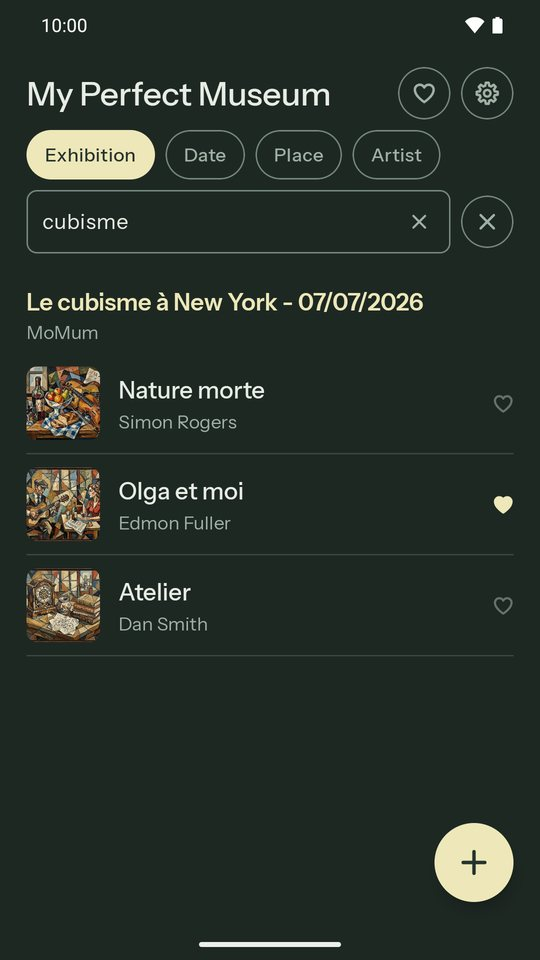
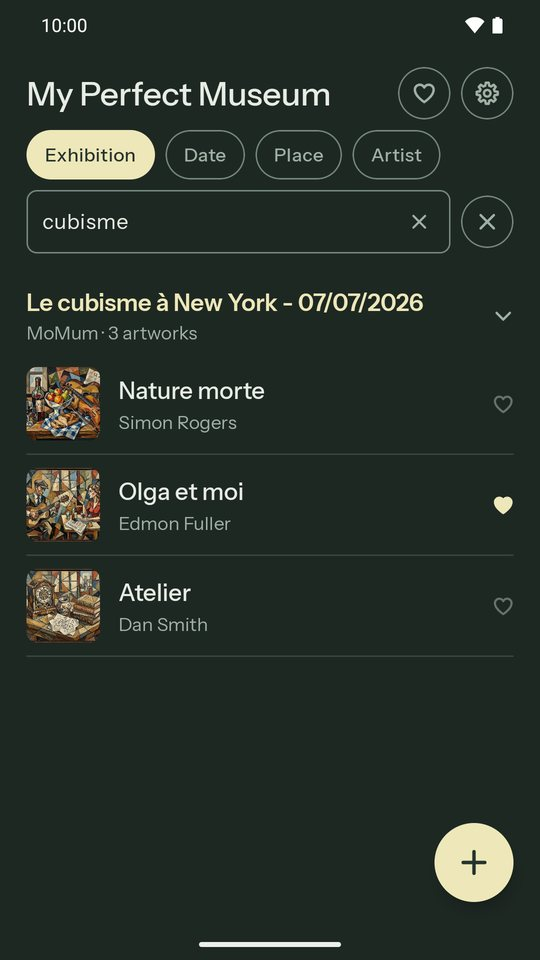
Add files via upload

diff --git a/index.html b/index.html
@@ -136,11 +136,11 @@ footer .wrap { display: flex; flex-wrap: wrap; gap: 8px 24px; justify-content: s
         <div class="telephone"><picture><source srcset="assets/fr-sombre-03-fiche-tags-impressions.jpg" media="(prefers-color-scheme: dark)"><img src="assets/fr-clair-03-fiche-tags-impressions.jpg" alt="Fiche d'une œuvre avec tags et impressions" width="540" height="960" loading="lazy" decoding="async"></picture></div>
       </div>
       <div class="fonction">
-        <div class="texte"><h3>Retrouvez tout facilement</h3><p>Votre collection classée par exposition, par date, par lieu ou par artiste, et une recherche dans tous vos textes : titre, artiste, exposition, lieu, impressions, cartel. Un appui long pour sélectionner plusieurs œuvres et les modifier ou les supprimer d'un coup.</p></div>
+        <div class="texte"><h3>Retrouvez tout facilement</h3><p>Votre collection classée par exposition, par date, par lieu ou par artiste, et une recherche dans tous vos textes : titre, artiste, exposition, lieu, impressions, cartel. Des sections repliables, et un appui long pour modifier toute une exposition ou plusieurs œuvres d'un coup.</p></div>
         <div class="telephone"><picture><source srcset="assets/fr-sombre-05-recherche.jpg" media="(prefers-color-scheme: dark)"><img src="assets/fr-clair-05-recherche.jpg" alt="Recherche dans la collection" width="540" height="960" loading="lazy" decoding="async"></picture></div>
       </div>
       <div class="fonction">
-        <div class="texte"><h3>Votre collection en chiffres</h3><p>Votre profil d'amateur, votre artiste de prédilection, votre musée fétiche, votre complice de musée, vos œuvres par mouvement, par époque et par lieu, et votre rythme de visite comparé aux statistiques nationales.</p></div>
+        <div class="texte"><h3>Votre collection en chiffres</h3><p>Votre profil d'amateur et un portrait qui évolue avec vos visites : votre artiste de prédilection, votre musée fétiche, votre complice de musée, votre rythme de visite comparé aux statistiques nationales, et vos œuvres par artiste, mouvement, époque et lieu.</p></div>
         <div class="telephone"><picture><source srcset="assets/fr-sombre-06-ma-collection.jpg" media="(prefers-color-scheme: dark)"><img src="assets/fr-clair-06-ma-collection.jpg" alt="Ma collection en chiffres" width="540" height="960" loading="lazy" decoding="async"></picture></div>
       </div>
       <div class="fonction">

diff --git a/en/index.html b/en/index.html
@@ -136,11 +136,11 @@ footer .wrap { display: flex; flex-wrap: wrap; gap: 8px 24px; justify-content: s
         <div class="telephone"><picture><source srcset="../assets/en-sombre-03-fiche-tags-impressions.jpg" media="(prefers-color-scheme: dark)"><img src="../assets/en-clair-03-fiche-tags-impressions.jpg" alt="Artwork page with tags and impressions" width="540" height="960" loading="lazy" decoding="async"></picture></div>
       </div>
       <div class="fonction">
-        <div class="texte"><h3>Find everything easily</h3><p>Your collection sorted by exhibition, date, place or artist, and search across all your text: title, artist, exhibition, place, impressions, label. Long-press to select several artworks and edit or delete them at once.</p></div>
+        <div class="texte"><h3>Find everything easily</h3><p>Your collection sorted by exhibition, date, place or artist, and search across all your text: title, artist, exhibition, place, impressions, label. Collapsible sections, and a long-press to edit a whole exhibition or several artworks at once.</p></div>
         <div class="telephone"><picture><source srcset="../assets/en-sombre-05-recherche.jpg" media="(prefers-color-scheme: dark)"><img src="../assets/en-clair-05-recherche.jpg" alt="Searching the collection" width="540" height="960" loading="lazy" decoding="async"></picture></div>
       </div>
       <div class="fonction">
-        <div class="texte"><h3>Your collection in numbers</h3><p>Your art-lover profile, your favourite artist, your favourite museum, your museum buddy, your artworks by movement, era and place, and how often you visit compared with national statistics.</p></div>
+        <div class="texte"><h3>Your collection in numbers</h3><p>Your art-lover profile and a portrait that evolves with your visits: your favourite artist, your favourite museum, your museum buddy, how often you visit compared with national statistics, and your artworks by artist, movement, era and place.</p></div>
         <div class="telephone"><picture><source srcset="../assets/en-sombre-06-ma-collection.jpg" media="(prefers-color-scheme: dark)"><img src="../assets/en-clair-06-ma-collection.jpg" alt="My collection in numbers" width="540" height="960" loading="lazy" decoding="async"></picture></div>
       </div>
       <div class="fonction">
